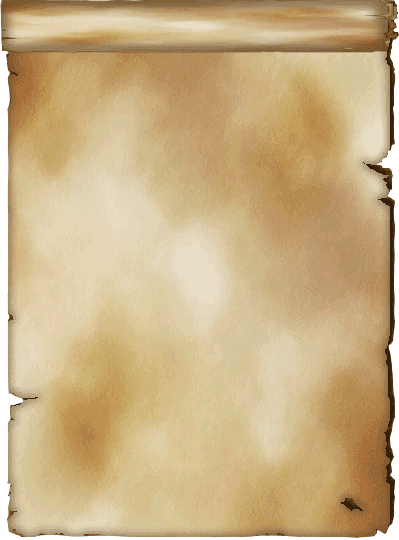
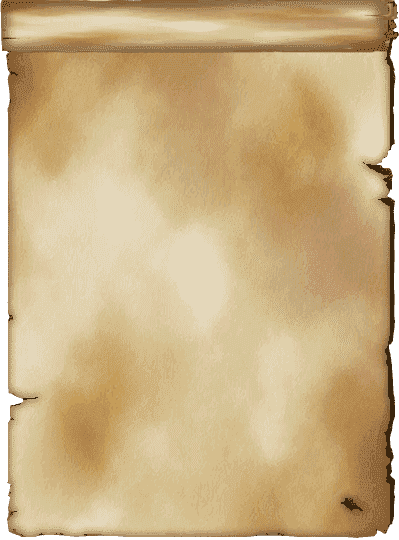
compress photo

diff --git a/src/views/front/Home.vue b/src/views/front/Home.vue
@@ -32,7 +32,7 @@
               <div class="row align-items-center flex-column-reverse flex-lg-row">
                 <p class="h4 col-lg-7 mt-4 mt-md-0 px-5" style="line-height: 40px;">在人人自危的世界，只有擁有最多資源的的人才會是贏家，在這個地下商城裡，傭兵、裝備...應用盡有，所有你要變強的資源都幫你準備好了。讓我們一起重返榮耀吧 !</p>
                 <div class="col-lg-5">
-                  <img class="part_img w-100" src="../../assets/images/part-img.png" height="312" alt="">
+                  <img class="part_img w-100" src="../../assets/images/part-img.jpg" height="312" alt="">
                 </div>
               </div>
             </div>
